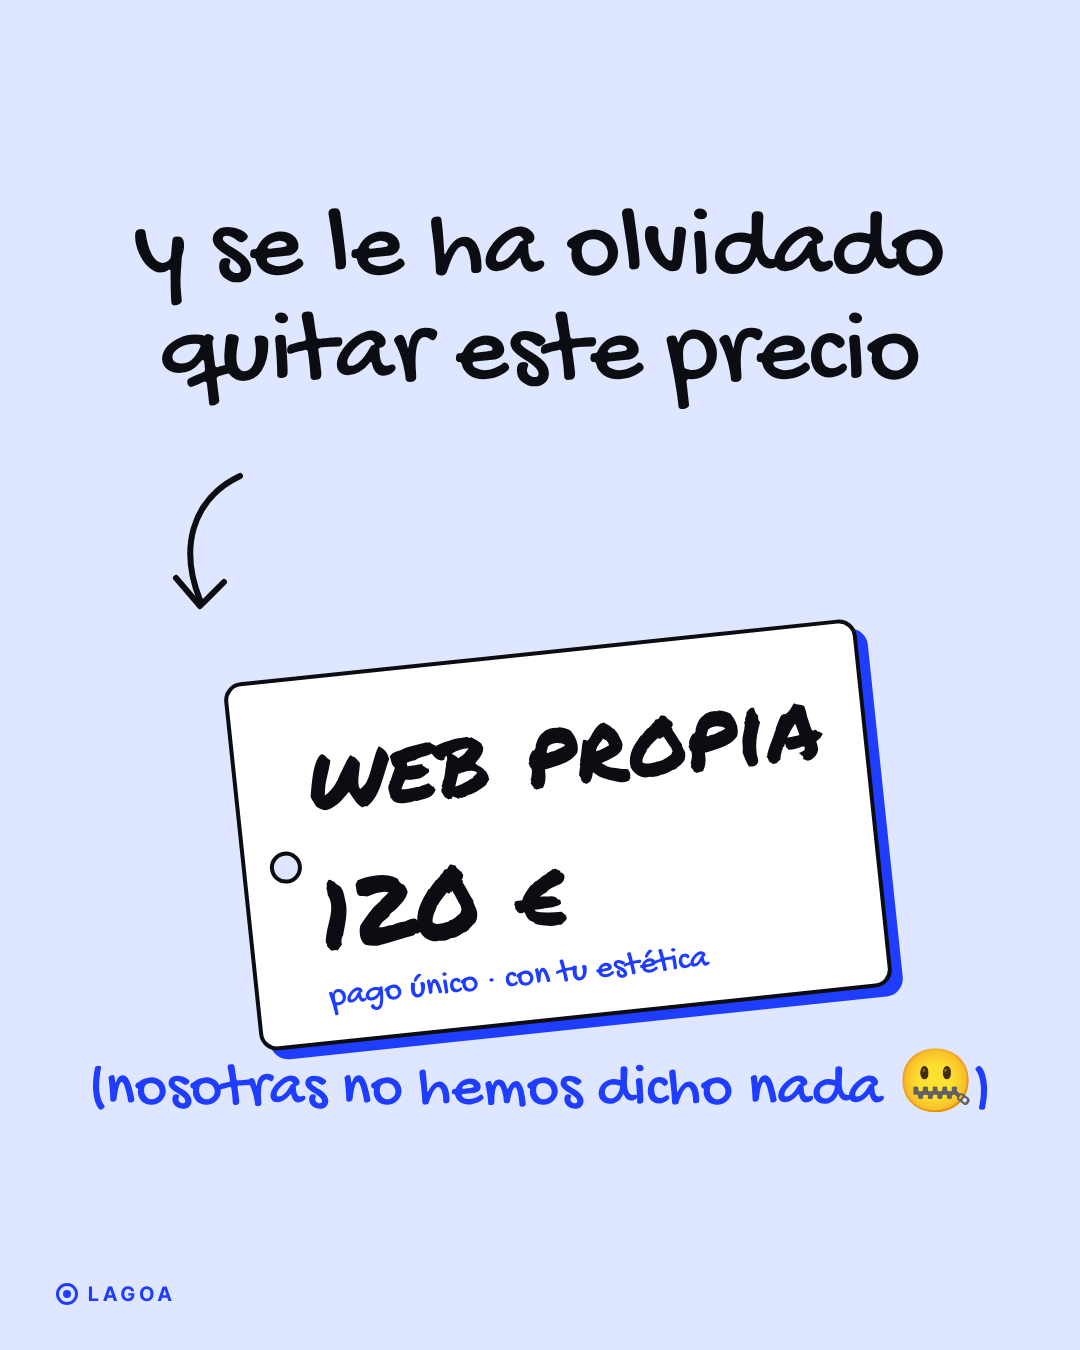
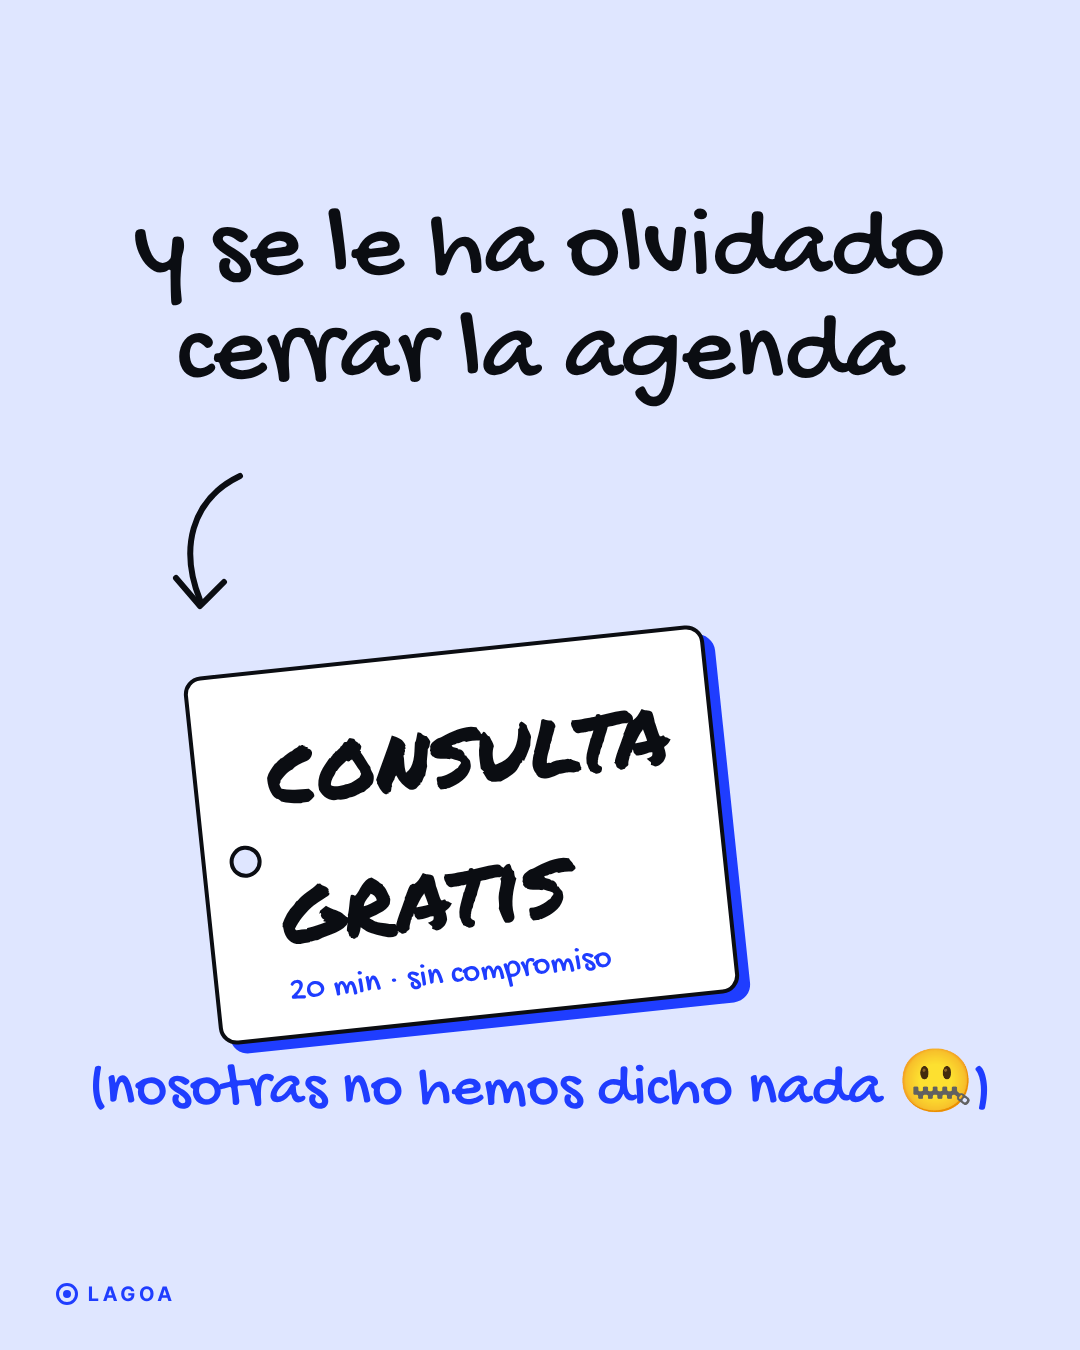
marketing: drop price from trend 1 slide 2 (placeholder copy, pending final choice)
Claude-Session: https://claude.ai/code/session_01W5wU8kxQFk3NmTmcu9j8qv

Changed region(s): [[0.1528, 0.4356, 0.8556, 0.8089], [0.4278, 0.2178, 0.8556, 0.3111], [0.1528, 0.2178, 0.3972, 0.3111]]

diff --git a/marketing/instagram/trends-octubre/trends.html b/marketing/instagram/trends-octubre/trends.html
@@ -119,9 +119,9 @@
 
 <!-- ============ TREND 1 · 2/3 ============ -->
 <section class="slide t1" data-name="trend1-vacaciones-02">
-  <div class="hand" style="top:200px;font-size:104px;color:var(--ink)">y se le ha olvidado<br>quitar este precio</div>
+  <div class="hand" style="top:200px;font-size:104px;color:var(--ink)">y se le ha olvidado<br>cerrar la agenda</div>
   <svg style="position:absolute;left:150px;top:470px" width="120" height="150" viewBox="0 0 120 150"><path d="M90 6 C 40 30, 30 80, 50 130" fill="none" stroke="#0b0d12" stroke-width="6" stroke-linecap="round"/><path d="M26 108 L 50 136 L 74 112" fill="none" stroke="#0b0d12" stroke-width="6" stroke-linecap="round" stroke-linejoin="round"/></svg>
-  <div class="tag" style="left:240px;top:650px">web propia<br>120 €<small>pago único · con tu estética</small></div>
+  <div class="tag" style="left:200px;top:650px">consulta<br>gratis<small>20 min · sin compromiso</small></div>
   <div class="hand" style="top:1060px;font-size:62px">(nosotras no hemos dicho nada 🤐)</div>
   <div class="brand" style="color:var(--accent)"><i></i>LAGOA</div>
 </section>
@@ -173,7 +173,7 @@
 <!-- ============ TREND 3 · 2/2 ============ -->
 <section class="slide t3b" data-name="trend3-piedra-papel-tijera-02">
   <div class="h">ya sabemos<br>quién <em>gana.</em></div>
-  <p class="sub">Tu primo es un amor, pero tu negocio merece una web que no se caiga en Navidad.<br><b>Diseño a medida y precio cerrado desde el primer día.</b></p>
+  <p class="sub">Tu primo es un amor, pero tu negocio merece una web que no se caiga en Navidad.<br><b>Diseño a medida y alguien que te coge el teléfono cuando lo necesitas.</b></p>
   <div class="pill">escríbenos <span>"WEB"</span> 💬</div>
   <div class="fist">✊</div>
   <div class="handle" style="color:#dfe4ff">lagoa-webs.vercel.app</div>
